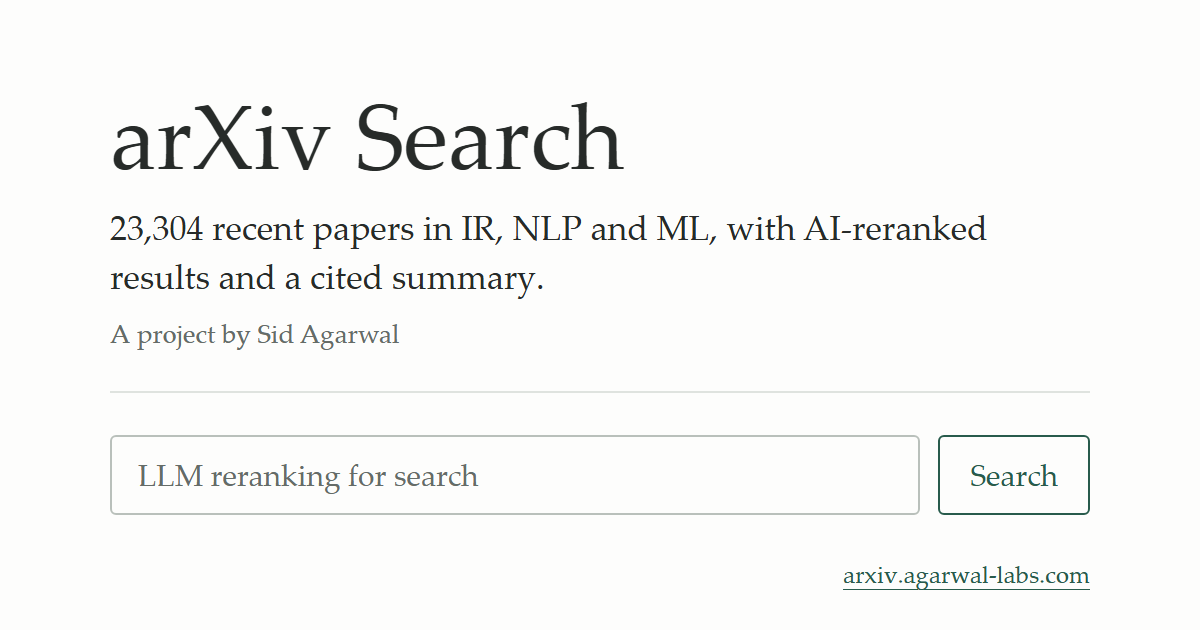
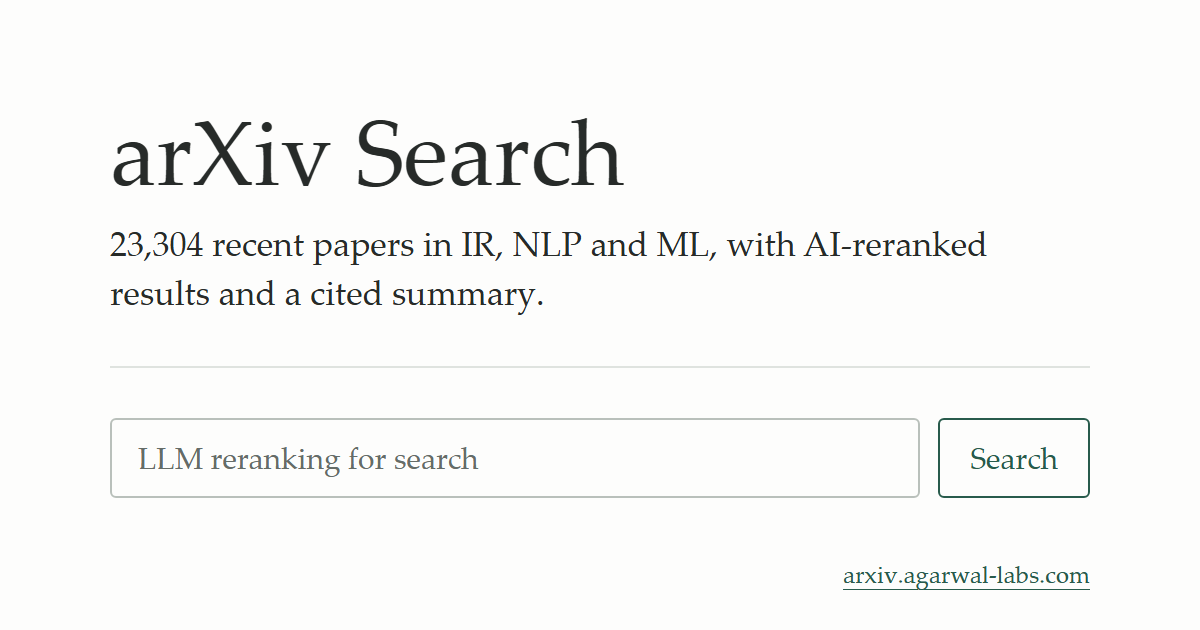
Remove the byline from the search page and preview image

diff --git a/web/scripts/og-image.html b/web/scripts/og-image.html
@@ -6,13 +6,12 @@
   body {
     font-family: "Iowan Old Style", "Palatino Linotype", "Book Antiqua", Palatino, serif;
     color: #272b29; background: #fdfdfc;
-    padding: 84px 110px 0; box-sizing: border-box;
+    padding: 100px 110px 0; box-sizing: border-box;
     -webkit-font-smoothing: antialiased;
   }
   h1 { font-size: 92px; font-weight: 500; line-height: 1.1; margin: 0; }
   .role { font-size: 34px; line-height: 1.45; margin: 18px 0 0; max-width: 960px; }
-  .by { font-size: 26px; color: #656c68; margin: 14px 0 0; }
-  .rule { border-top: 2px solid #dfe3df; margin: 40px 0 42px; }
+  .rule { border-top: 2px solid #dfe3df; margin: 48px 0 50px; }
   .search { display: flex; gap: 18px; }
   .input { flex: 1; border: 2px solid #b9c0bb; border-radius: 6px; padding: 18px 26px; font-size: 30px; color: #656c68; }
   .btn { border: 2px solid #285b4c; border-radius: 6px; padding: 18px 30px; font-size: 30px; color: #285b4c; }
@@ -22,7 +21,6 @@
 <body>
   <h1>arXiv Search</h1>
   <p class="role">23,304 recent papers in IR, NLP and ML, with AI-reranked results and a cited summary.</p>
-  <p class="by">A project by Sid Agarwal</p>
   <div class="rule"></div>
   <div class="search">
     <div class="input">LLM reranking for search</div>

diff --git a/web/index.html b/web/index.html
@@ -36,7 +36,6 @@
     <div class="masthead__identity">
       <h1><a class="masthead__name" href="./" data-home>arXiv Search</a></h1>
       <p class="masthead__role">Search recent papers in information retrieval, NLP and machine learning. Get an AI summary and the most relevant papers.</p>
-      <p class="masthead__location">A project by <a href="https://agarwal-labs.com">Sid Agarwal</a></p>
     </div>
     <div class="masthead__bar">
       <nav class="site-links" aria-label="Site">

diff --git a/web/styles.css b/web/styles.css
@@ -80,7 +80,6 @@ button { font: inherit; color: inherit; }
 .masthead__name { color: var(--ink); text-decoration: none; }
 .masthead__name:hover { color: var(--link); }
 .masthead__role { margin-top: 8px; font-size: 17px; line-height: 1.55; }
-.masthead__location { margin-top: 4px; font-size: 15px; color: var(--muted); }
 
 .masthead__bar {
   display: flex; flex-wrap: wrap; align-items: center; gap: 12px 28px;
